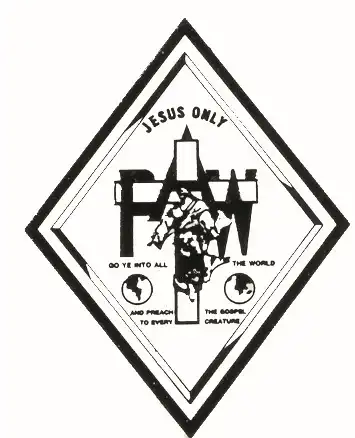
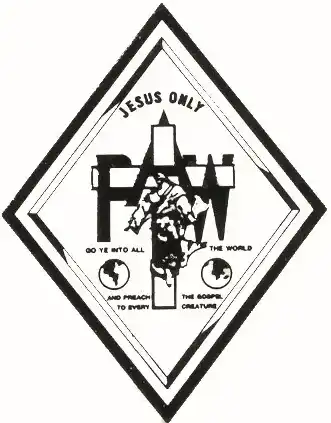
New

Changed region(s): [[0.0, 0.0, 0.997, 1.0]]

diff --git a/Css/PAW.css b/Css/PAW.css
@@ -1424,12 +1424,12 @@ box-shadow:         0px 5px 5px 0px rgba(0, 0, 0, 0.7);
 		position: relative;
 		border-radius: 4px;
 		border:0px solid #F0F0F0;
-		box-shadow: 0px 0px 5px #BAEBCB;
+		box-shadow: 0px 0px 5px #BABECC;
 	}
 
 	#adminLogin-form #logo {
-		width:100px;
-		height:100px;
+		width:60px;
+		height:60px;
 		position: absolute;
 		left: 50%;
 		top:0;
@@ -1437,6 +1437,7 @@ box-shadow:         0px 5px 5px 0px rgba(0, 0, 0, 0.7);
 		transform: translate(-50%, -50%);
 		border-radius: 100px;
 		overflow: hidden;
+		background-color: white;
 		box-shadow: 2px 4px 3px #777;
 	}
 

diff --git a/admin_portal_login.html b/admin_portal_login.html
@@ -43,7 +43,7 @@
 			<div id="grid-main">
 				<form method="POST" id="adminLogin-form">
 					<div id="logo">
-						<img src="Images/Logo/PAW.webp" width="100%">
+						<img src="Images/Logo/PAW.webp" width="100%" height="100%">
 					</div>
 					<label>Username</label>
 					<input class="" type="text" name="">
@@ -53,7 +53,7 @@
 				</form>
 			</div>
 			
-			<div id="grid-footer">This is the footer</div>
+			<div id="grid-footer">Back to home page</div>
 		</div>
 		
 	</body>
